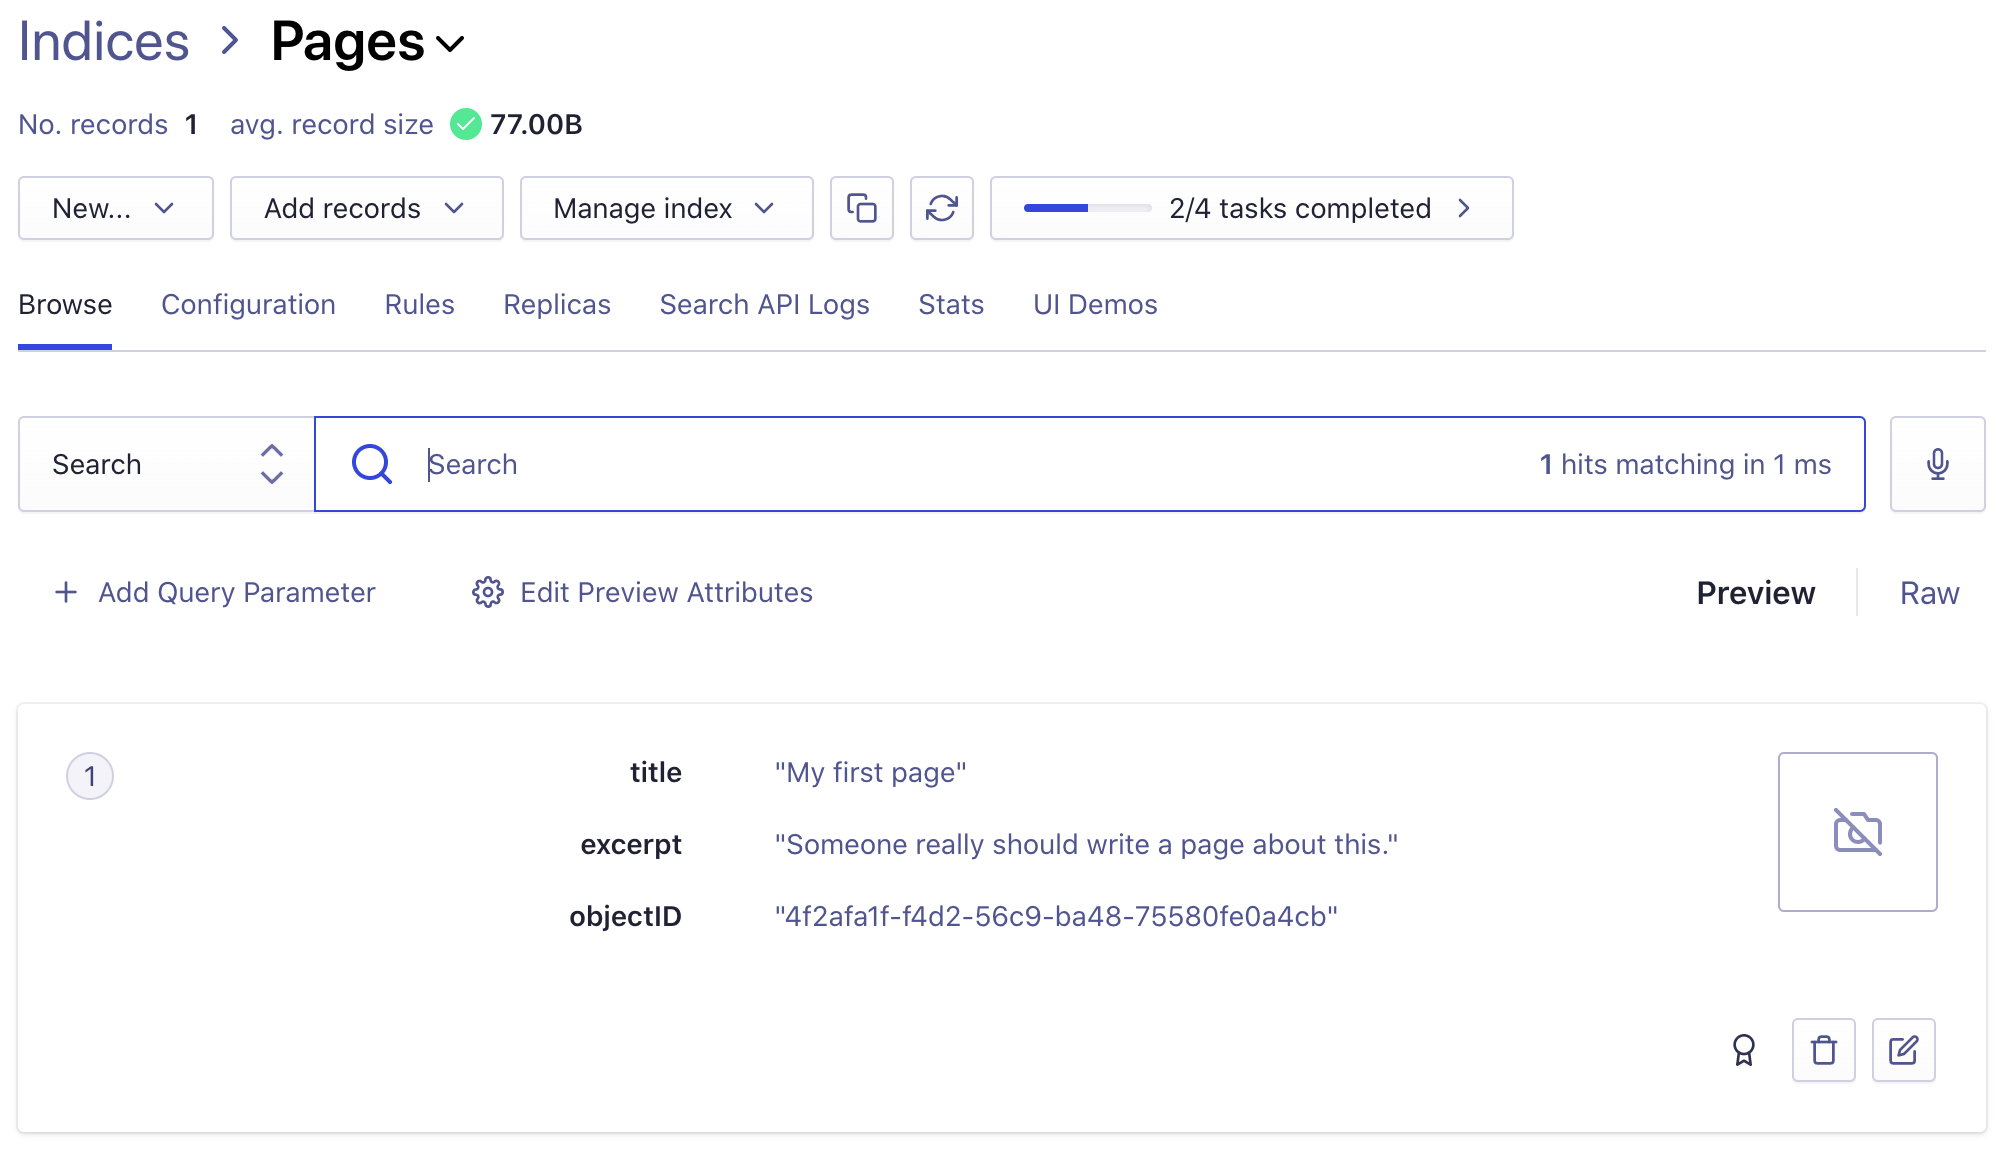
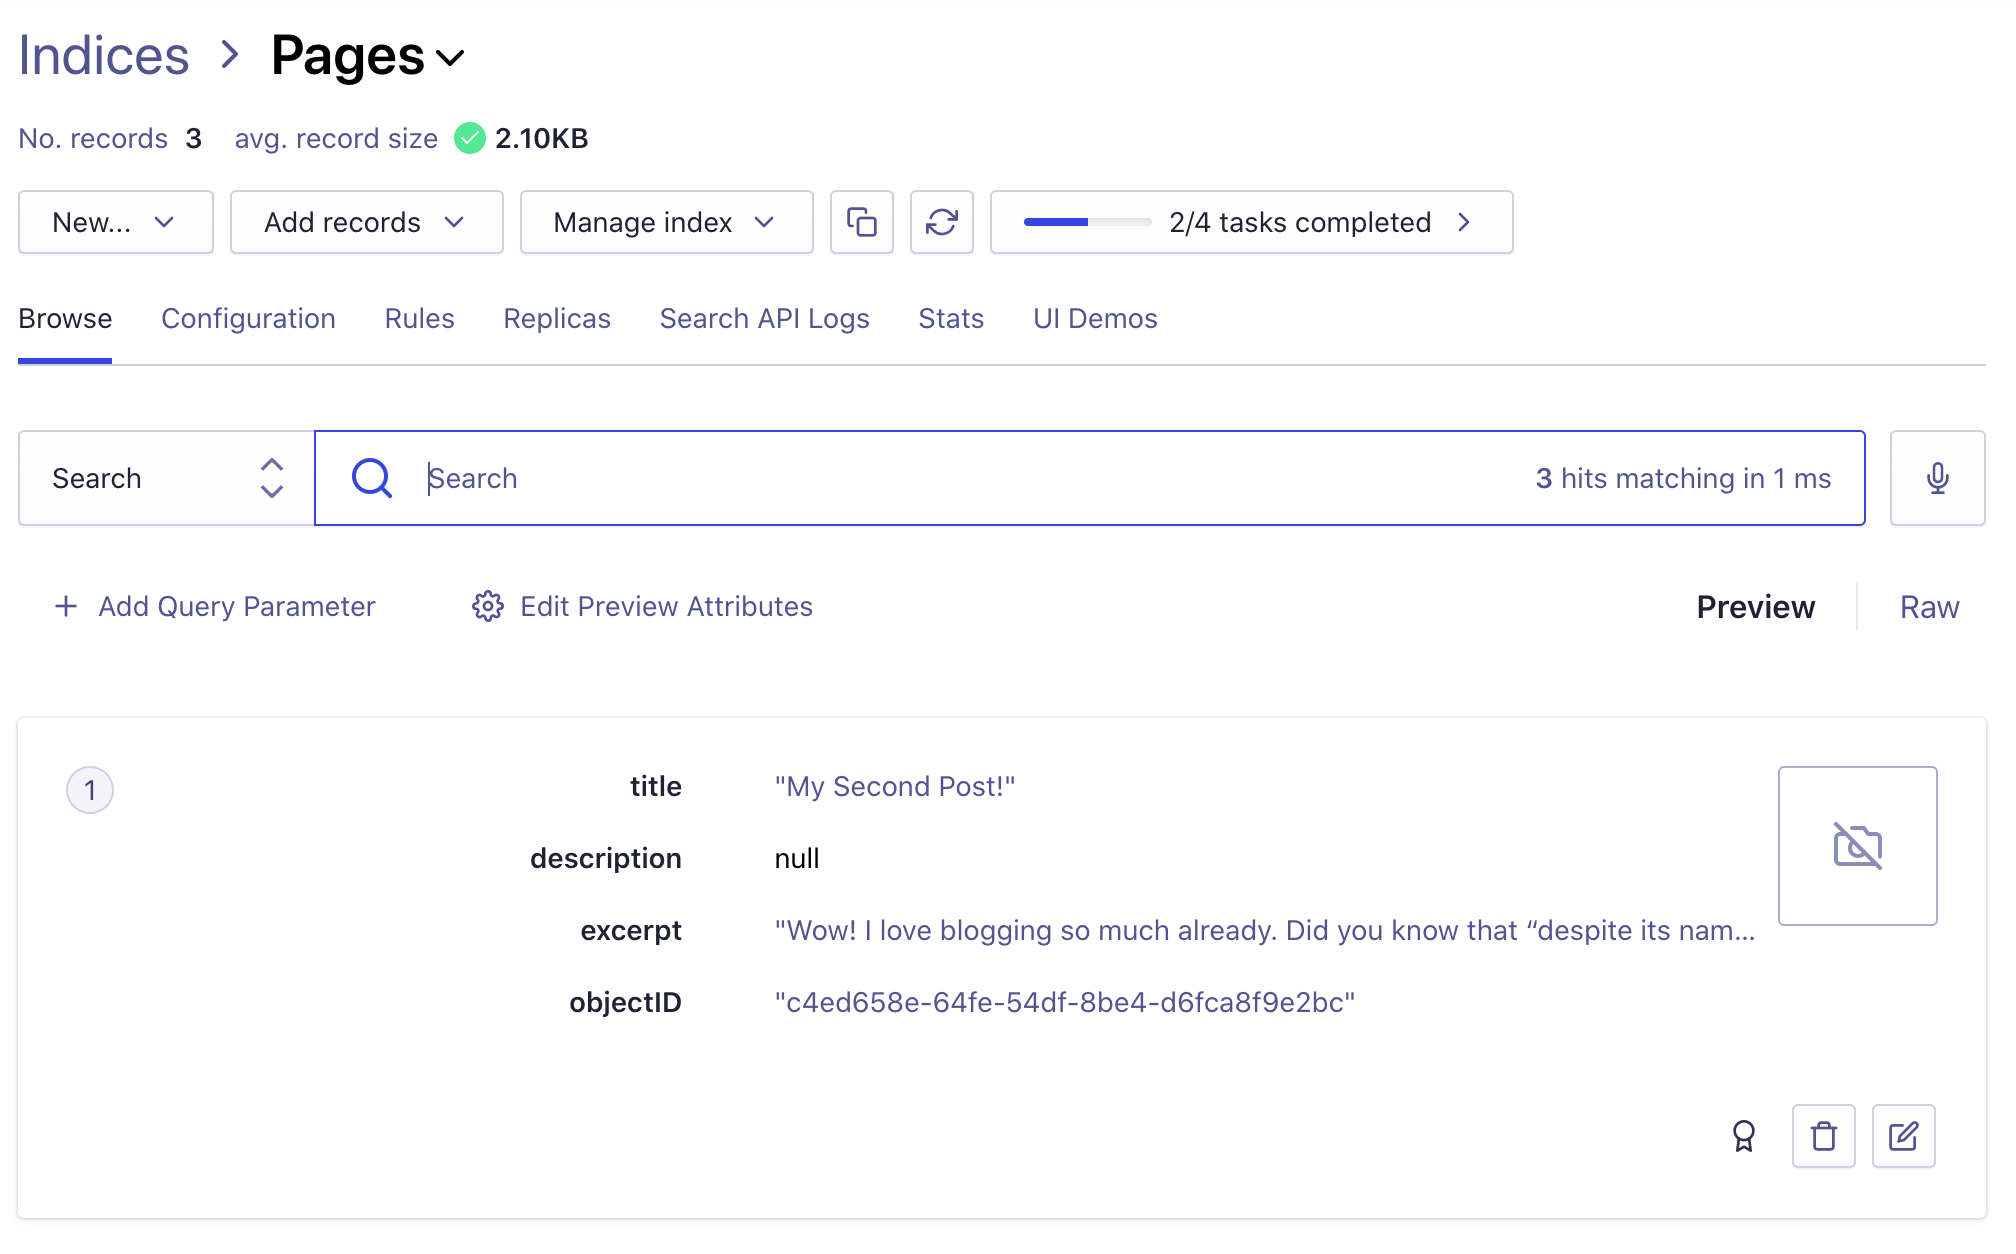
Switched to starting from the gatsby starter blog

diff --git a/docs/docs/adding-search-with-algolia.md b/docs/docs/adding-search-with-algolia.md
@@ -24,55 +24,24 @@ To build the user interface for searching, this guide will use [React InstantSea
 
 ## Setting up the project
 
-This guide will show you how to set up a search based on the [Gatsby starter](/starters/gatsbyjs/gatsby-starter-default/). You can of course base it on your own project instead, but that might require minor modifications to the code, depending on your page structure and the frameworks you use.
+This guide will set up a search based on the [Gatsby starter blog](/starters/gatsbyjs/gatsby-starter-blog/). You can of course base it on your own project instead, but that might require minor modifications to the code, depending on your page structure and the frameworks you use.
 
 Create a new site using
 
 ```shell
-gatsby new gatsby-algolia-guide
+gatsby new gatsby-algolia-guide https://github.com/gatsbyjs/gatsby-starter-blog
 ```
 
-If you don't already have pages in your project, you should add some so you can test the search. To add some Markdown pages (see "[Adding Markdown pages](/docs/adding-markdown-pages/)"), first add the Remark plugin:
-
-```shell
-npm install --save gatsby-transformer-remark
-```
-
-Configure where the pages are located and add the Remark plugin by adding the following to `gatsby-config.js`.
-
-```js
-   {
-      resolve: `gatsby-source-filesystem`,
-      options: {
-        name: `markdown-pages`,
-        path: `${__dirname}/src/markdown-pages`,
-      },
-    },
-    `gatsby-transformer-remark`,
-```
-
-Now, create a few Markdown files, for example:
-
-```markdown:title=src/markdown-pages/my-page.md
----
-title: "My first page"
-excerpt: This page should be read first.
-slug: "/first-page"
----
-
-Someone really should write a page about this.
-```
-
-Note that the three frontmatter fields `title`, `excerpt` and `slug` will be referenced later when configuring the Algolia query. If you call them something else, the query needs to be modified.
+The starter blog contains the pages you will index in the directory `content/blog`. These are Markdown files that have the [frontmatter field](/docs/adding-markdown-pages/#frontmatter-for-metadata-in-markdown-files) `title`. It is referenced when configuring the Algolia query. If you call this field something else, the query needs to be modified.
 
 ## Indexing
 
-Now that your site has pages, you can proceed to indexing them in Algolia.
+Now that you have a project set up you can proceed to indexing your pages in Algolia.
 
-Start by adding the [Algolia plugin](https://github.com/algolia/gatsby-plugin-algolia). You'll also add the [dotenv](https://www.npmjs.com/package/dotenv) package, which allows you to handle the configuration in a clean way:
+Start by adding the [Algolia plugin](https://github.com/algolia/gatsby-plugin-algolia):
 
 ```shell
-npm install --save gatsby-plugin-algolia dotenv
+npm install --save gatsby-plugin-algolia
 ```
 
 ### Configuring the Algolia plugin
@@ -126,12 +95,9 @@ Then add the configuration for `gatsby-plugin-algolia` to the list of `plugin`s 
 
 You still need to supply a `queries` configuration. Queries tell the Algolia plugin what data is to be indexed. They perform GraphQL queries for the relevant pages and convert the response into a set of Algolia records. These contain key/value pairs with the data to be indexed.
 
-This could have been entered straight into the `gatsby-config.js`, but to avoid clutter the configuration above loads it from a new file `src/utils/algolia-queries.js`. Create this page in your project:
+The configuration could have been entered straight into the `gatsby-config.js`, but the configuration above loads it from a new file `src/utils/algolia-queries.js` to avoid clutter. Create this page in your project:
 
 ```js:title=src/utils/algolia-queries.js
-const pagePath = "src/markdown-pages"
-const indexName = "Pages"
-
 const pageQuery = `{
   pages: allMarkdownRemark(
     filter: {
@@ -140,9 +106,11 @@ const pageQuery = `{
   ) {
     edges {
       node {
-        objectID: id
+        id
         frontmatter {
           title
+        }
+        fields {
           slug
         }
         excerpt(pruneLength: 5000)
@@ -151,10 +119,11 @@ const pageQuery = `{
   }
 }`
 
-function pageToAlgoliaRecord({ node: { id, frontmatter, ...rest } }) {
+function pageToAlgoliaRecord({ node: { id, frontmatter, fields, ...rest } }) {
   return {
     objectID: id,
     ...frontmatter,
+    ...fields,
     ...rest,
   }
 }
@@ -171,13 +140,17 @@ const queries = [
 module.exports = queries
 ```
 
+If you did not start from the Gatsby start blog, you might need to modify the `pagePath` to match where your content is kept.
+
 The file exports a list of queries. Each query defines a single index. You can build [multiple indices](https://www.algolia.com/doc/guides/sending-and-managing-data/prepare-your-data/in-depth/choosing-between-one-or-more-indices/) with Algolia but this guide will only use a single one.
 
 Each index requires a GraphQL query that retrieves the pages and data to be indexed. A `transformer` transforms the GraphQL data to an Algolia record.
 
+Each index has a name that identifies it. If the index does not exist, it will be created automatically during indexing.
+
 Note that each record must have an ID in the key `objectID`. The Algolia documentation provides more information on [how to structure data into records](https://www.algolia.com/doc/guides/sending-and-managing-data/prepare-your-data/#attributes---what-to-put-in-your-record).
 
-Here, only the frontmatter field `title` and the field `excerpt` are indexed. It will display both fields in the search results. To index more fields, add them to `pageQuery` with GraphQL.
+Here, only the field `excerpt` and the frontmatter field `title` are indexed. It will display both fields in the search results. To index more fields, add them to `pageQuery` with GraphQL.
 
 Each query has optional [settings](https://www.algolia.com/doc/api-reference/settings-api-parameters/). The code above tells Algolia you will want to generate "snippets" of context around your hits in the `excerpt` attribute.
 
@@ -189,12 +162,11 @@ This should complete the indexing setup. Now run `gatsby build`. If all goes wel
 success Building static HTML for pages - 7.610s - 5/5 0.66/s
 Algolia: 1 queries to index
 Algolia: query 0: executing query
-Algolia: query 0: graphql resulted in 1 records
+Algolia: query 0: graphql resulted in 3 records
 Algolia: query 0: splitting in 1 jobs
-Algolia: query 0: moving copied index to main index
 ```
 
-Check that "graphql resulted in" is followed by the number of pages you created. If the number is wrong, there is something wrong with your query.
+Check that "graphql resulted in" is followed by the number of pages in your project. If the number is wrong, there is something wrong with your query.
 
 Log in to your Algolia account, go to "Indices" and then select the "Page" index and you should see your indexed page data.
 
@@ -202,7 +174,7 @@ Log in to your Algolia account, go to "Indices" and then select the "Page" index
 
 ### Troubleshooting
 
-If you get the error `GraphQLError: Field "fileAbsolutePath" is not defined by type MarkdownRemarkFilterInput` it means that no pages were found in your project. Check the path configured for `gatsby-source-filesystem` and the query.
+If you get the error `GraphQLError: Field "fileAbsolutePath" is not defined by type MarkdownRemarkFilterInput` it means that no pages were found in your project. Check the path configured for `gatsby-source-filesystem` and the query (particularly `pagePath`).
 
 Algolia has an upper bound of 10KB for an index entry. If you get the error `AlgoliaSearchError: Record at the position XX objectID=xx-xx-xx-xx-xx is too big size=xxxx bytes` it means you exceeded that limit. Note how the excerpts are pruned to 5000 characters in the query. Make sure you prune long fields and don't index unnecessary data.
 
@@ -232,7 +204,7 @@ The first step is to create the input field where the user enters the search que
 ```jsx:title=src/components/search/search-box.js
 import React from "react"
 import { connectSearchBox } from "react-instantsearch-dom"
-import { Search as SearchIcon } from "styled-icons/fa-solid"
+import { Search as SearchIcon } from "@styled-icons/fa-solid"
 
 export default connectSearchBox(
   ({ refine, currentRefinement, className, onFocus }) => (
@@ -450,7 +422,7 @@ export default styled(SearchBox)`
 
   .SearchInput {
     outline: none;
-    border: none;
+    border: ${({ hasFocus }) => (hasFocus ? "auto" : "none")};
     font-size: 1em;
     transition: 100ms;
     border-radius: 2px;
@@ -464,8 +436,7 @@ export default styled(SearchBox)`
   .SearchIcon {
     width: 1em;
     margin: 0.3em;
-    color: ${({ theme, hasFocus }) =>
-      hasFocus ? theme.foreground : theme.background};
+    color: ${({ theme }) => theme.foreground};
     pointer-events: none;
   }
 `
@@ -540,54 +511,50 @@ export default styled(SearchResult)`
 
 ## Usage
 
-The search widget is now ready for use. It needs to be placed somewhere in your project's layout. The most common place is the `Header` component:
+The search widget is now ready for use. It needs to be placed somewhere in your project's layout. If you start from Gatsby starter block, you can use the `layout` component:
 
-```jsx:title=src/components/header.js
+```jsx:title=src/components/layout.js
 ...
-import { Link } from "gatsby"
-import PropTypes from "prop-types"
 import React from "react"
+import { Link } from "gatsby"
+import { rhythm, scale } from "../utils/typography"
 // highlight-start
 import Search from "./search"
 
-const searchIndices = [
-  { name: `Pages`, title: `Pages` },
-]
+const searchIndices = [{ name: `Pages`, title: `Pages` }]
 // highlight-end
-const Header = ({ siteTitle }) => (
-  <header
-    style={{
-      background: `rebeccapurple`,
-      marginBottom: `1.45rem`,
-    }}
-  >
+
+const Layout = ({ location, title, children }) => {
+  // ...
+
+  return (
     <div
       style={{
-        margin: `0 auto`,
-        maxWidth: 960,
-        padding: `1.45rem 1.0875rem`,
+        marginLeft: `auto`,
+        marginRight: `auto`,
+        maxWidth: rhythm(24),
+        padding: `${rhythm(1.5)} ${rhythm(3 / 4)}`,
       }}
     >
-      <h1 style={{ margin: 0 }}>
-        <Link
-          to="/"
-          style={{
-            color: `white`,
-            textDecoration: `none`,
-          }}
-        >
-          {siteTitle}
-        </Link>
-      </h1>
-
-      // highlight-next-line
-      <Search indices={searchIndices} />
+      <header>
+// highlight-next-line
+        <Search indices={searchIndices} />
+        {header}
+      </header>
+      <main>{children}</main>
+      <footer>
+        © {new Date().getFullYear()}, Built with
+        {` `}
+        <a href="https://www.gatsbyjs.org">Gatsby</a>
+      </footer>
     </div>
-  </header>
-)
+  )
+}
+
+export default Layout
 ```
 
-If you started from a different project your header file may look different; the highlighted lines show which lines need to be added.
+If you started from a different project your layout may look different; the highlighted lines show which lines need to be added.
 
 Note that this is where you define the search indices you wish to search. They are passed as a property to `Search`.
 
